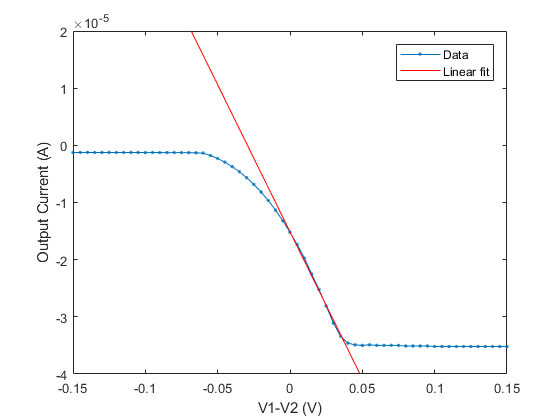
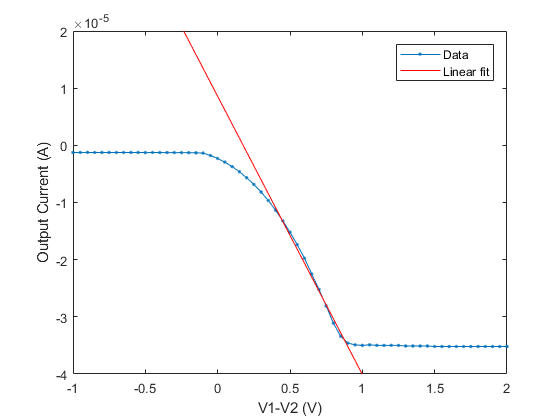
lab 8 plots

diff --git a/Lab 8/lab8_jamie.m b/Lab 8/lab8_jamie.m
@@ -21,13 +21,13 @@ ylim([-1,6])
 %%
 p3 = polyfit(Vout_exp2(32:34),Iout_fixed(32:34),1);
 y3 = polyval(p3,Vout_exp2);
-
+v = linspace(Vout_exp2(1),Vout_exp2(end),101);
 
 figure
 plot(Vout_exp2,Iout_fixed,'.-')
 hold on 
 plot(Vout_exp2,y3,'r')
-
+plot(v,Iout_sweep,'*')
 hold off
 xlabel('Output Voltage (V)')
 ylabel('Output Current (A)')
@@ -58,6 +58,7 @@ figure
 plot(Vout_sweep,Vout_exp3,'.-')
 hold on 
 plot(Vout_sweep,y5,'r')
+% plot(V1,Vout_sweep,'*')
 hold off
 xlabel('Input Voltage (V)')
 ylabel('Output Voltage (V)')
@@ -72,6 +73,7 @@ figure
 plot(Vout_sweep,Vout_Vin,'.-')
 hold on
 plot(Vout_sweep,y6,'r')
+% plot(V1,Vout_Vin,'*')
 hold off
 xlabel('Input Voltage (V)')
 ylabel('Vout - Vin (V)')
